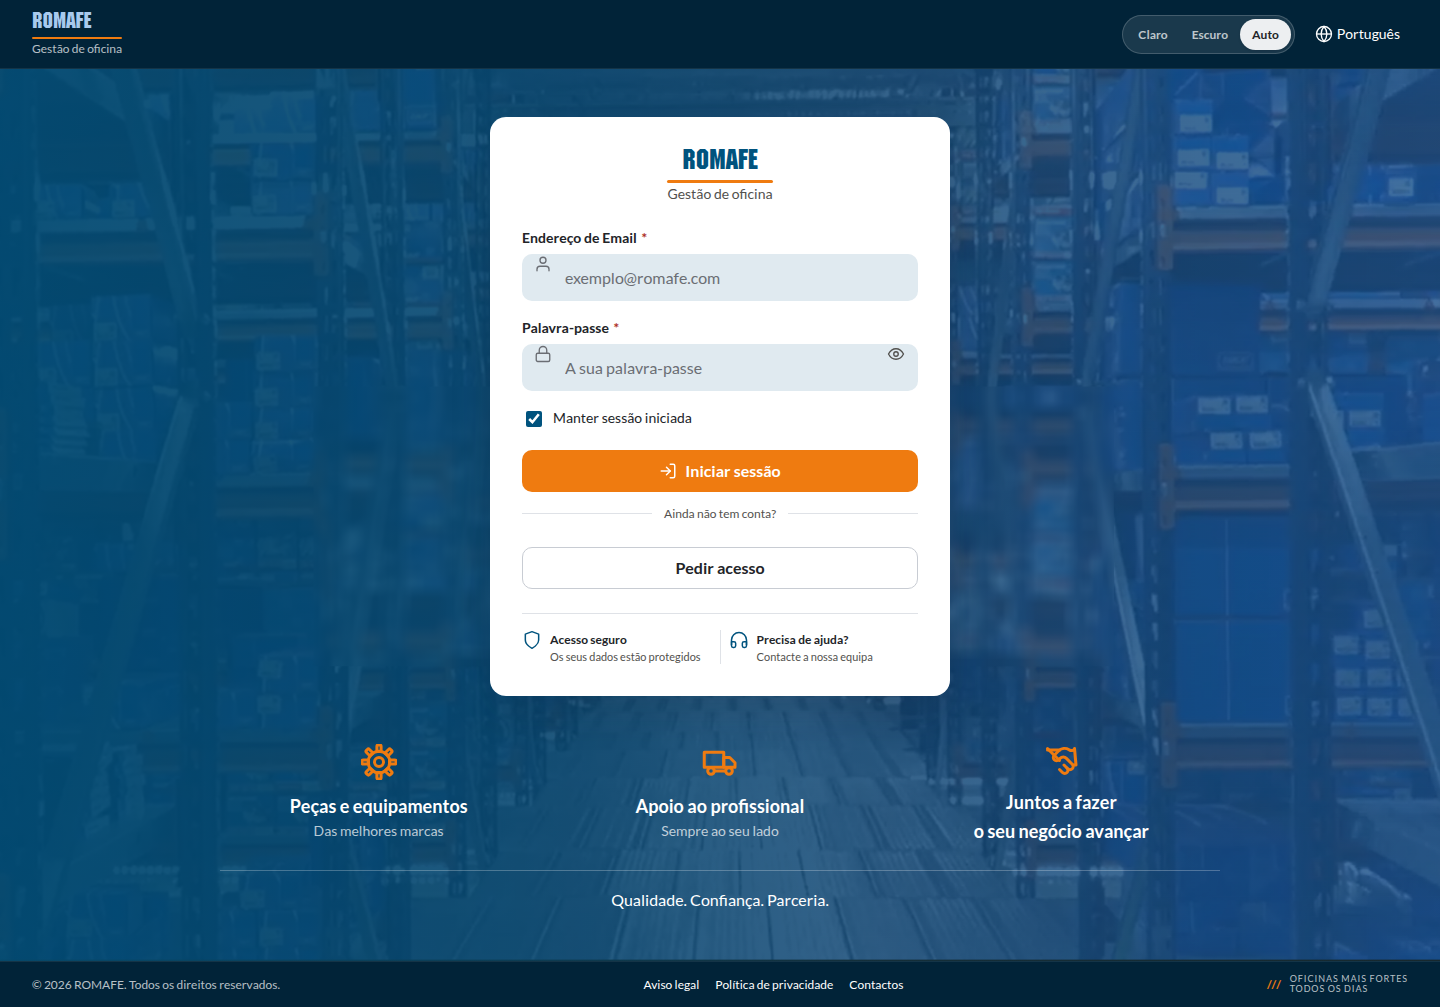
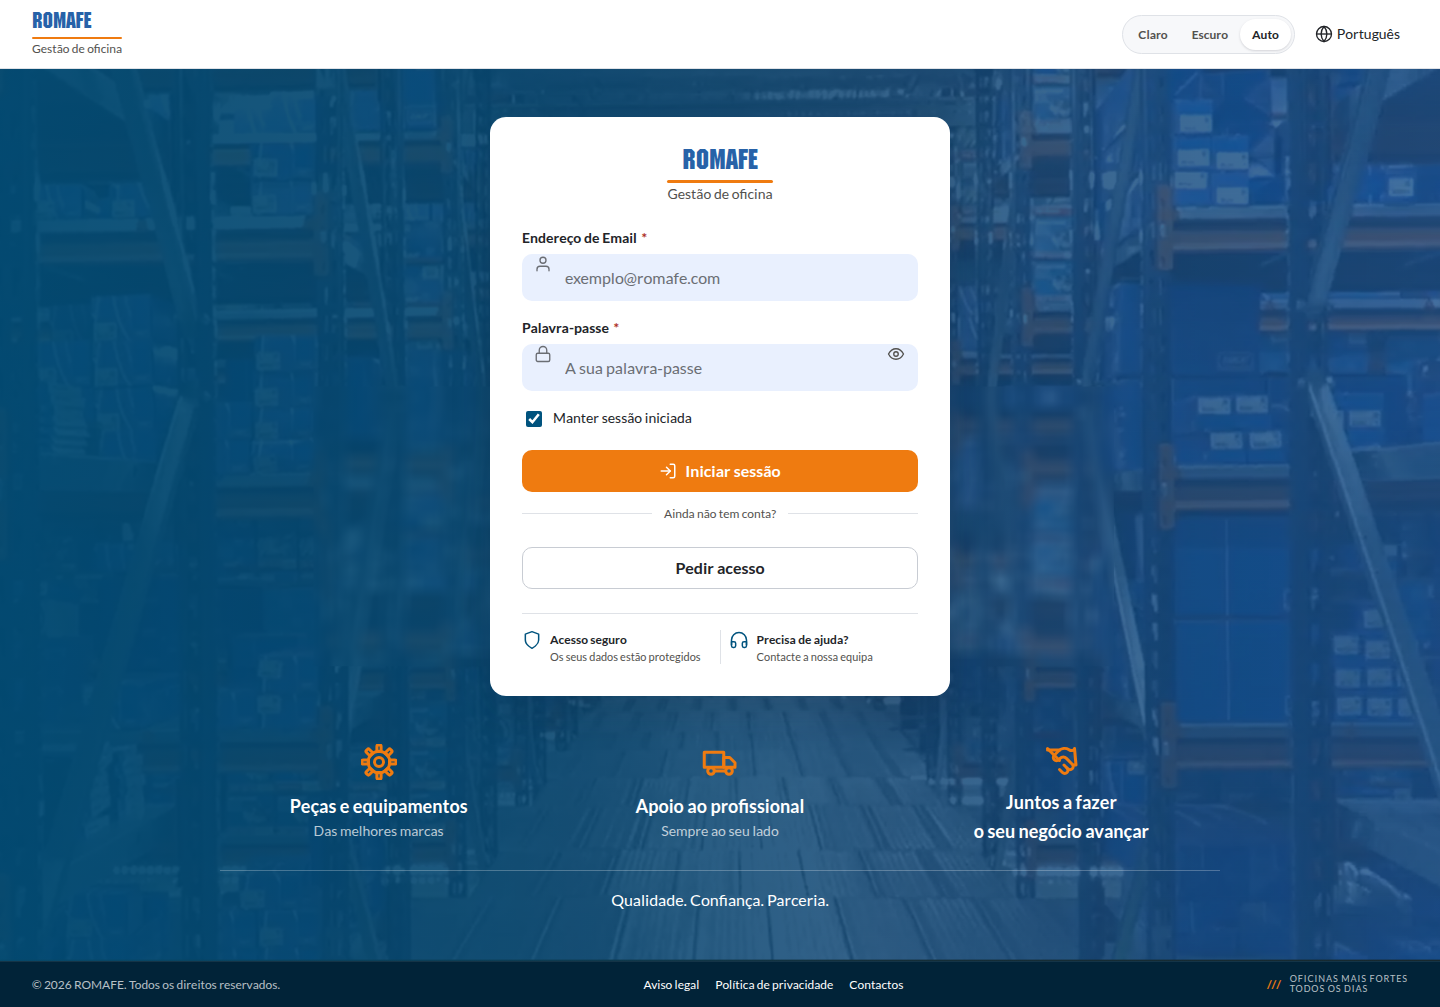
Barra de topo branca, e as cores alinhadas pela Gestão de frota
A barra deixa de ser azul escura e passa a superfície branca, para o nome poder
ser o azul escuro que se pediu — sobre o #012338 o azul escuro dava 1.53:1 e não
se via.

As duas capturas do ecrã de entrada da Gestão de frota fixaram dois valores que
o capítulo 02 não tem: o azul do nome, #2762a8 nos dois temas, e o fundo dos
campos, #e9f0fe no claro e #3d434f no escuro. Ficam registados no LEIA-ME como
dívida: ou o manual ganha e voltam aos tokens dele, ou o capítulo 02 é que está
incompleto.

O laranja fica no #ef7b10 do manual. As capturas dão #e77f24, que é a mesma cor
depois de passar pelo perfil do ecrã, e não uma decisão.

Claude-Session: https://claude.ai/code/session_01GVuYjnRH5bPY4K9mtqYcc2

Changed region(s): [[0.0, 0.0, 1.0, 0.0924], [0.4688, 0.1231, 0.5312, 0.1847]]

diff --git a/web/assets/css/tokens.css b/web/assets/css/tokens.css
@@ -123,15 +123,17 @@
   --c-entrada-veu:    rgba(0, 83, 126, .78);   /* 02 §1.1: as transparências do azul */
   --c-entrada-tinta:  #ffffff;
   --c-entrada-tinta-2: rgba(255, 255, 255, .72); /* 02 §6: o branco a 72% do menu */
-  --c-logotipo:       #00537e;                 /* o azul da marca, e não um parecido */
-  --c-campo-fundo:    var(--c-marca-suave);    /* 02 §4.2: o fundo do selo de informação */
+  /* Estes dois vêm das capturas do ecrã de entrada da Gestão de frota, que
+     é o produto a copiar. Não estão no capítulo 02 — ver LEIA-ME. */
+  --c-logotipo:       #2762a8;                 /* o azul do nome, nos dois temas */
+  --c-campo-fundo:    #e9f0fe;                 /* o azul lavado dos campos */
   --a-campo:          44px;                    /* 19 §2: 44 e não 42 */
   --l-cartao:         460px;                   /* a maqueta. O 19 §1 pede 400 */
 }
 
 /* 02 §11.4: sobre fundo escuro o azul da marca dá 1.53:1. O azul que é
    tinta muda; o que é fundo fica onde está. */
-[data-theme="dark"] { --c-logotipo: #a8caee; }
+[data-theme="dark"] { --c-campo-fundo: #3d434f; }
 
 /* O site trata "auto" como claro, porque não tem regra de sistema.
    Aqui auto segue o sistema — é a única diferença de comportamento. */
@@ -164,6 +166,6 @@
     --s-2: 0 4px 14px rgba(0,0,0,.45);
     --s-3: 0 18px 44px rgba(0,0,0,.55);
 
-    --c-logotipo:     #a8caee;
+    --c-campo-fundo:  #3d434f;
   }
 }

diff --git a/web/assets/css/entrada.css b/web/assets/css/entrada.css
@@ -14,17 +14,14 @@
 .topo {
   display: flex; align-items: center; justify-content: space-between; gap: var(--e-4);
   padding: var(--e-3) var(--e-6);
-  background: var(--c-entrada-fundo);
-  color: var(--c-entrada-tinta);
-  border-bottom: 1px solid rgba(255,255,255,.08);
+  background: var(--c-superficie);
+  color: var(--c-texto);
+  border-bottom: 1px solid var(--c-borda);
 }
 .topo__accoes { display: flex; align-items: center; gap: var(--e-3); }
-.topo .segmented { background: rgba(255,255,255,.10); border-color: rgba(255,255,255,.18); }
-.topo .segmented__btn { color: var(--c-entrada-tinta-2); }
-.topo .segmented__btn[aria-pressed="true"] { background: rgba(255,255,255,.92); color: #222428; }
 .topo__idioma {
   display: inline-flex; align-items: center; gap: var(--e-1);
-  font: inherit; font-size: var(--t-sm); color: var(--c-entrada-tinta);
+  font: inherit; font-size: var(--t-sm); color: var(--c-texto);
   background: transparent; border: 0; cursor: pointer; padding: var(--e-2);
 }
 .topo__idioma svg { width: 18px; height: 18px; }

diff --git a/web/index.html b/web/index.html
@@ -20,7 +20,7 @@
 <div class="entrada">
 
   <header class="topo">
-    <div class="lockup lockup--sm lockup--invertido">
+    <div class="lockup lockup--sm">
       <p class="lockup__nome">ROMAFE</p>
       <span class="lockup__risco" aria-hidden="true"></span>
       <p class="lockup__sub">Gestão de oficina</p>

diff --git a/LEIA-ME.md b/LEIA-ME.md
@@ -82,6 +82,21 @@ Serve para criar designs com a IA do Canva, preencher modelos e exportar. **Não
 coloca elementos em posições exatas**, por isso não reproduz este ecrã ao pixel —
 o caminho do PDF continua a ser o mais fiel.
 
+## Duas cores que vêm do produto, e não do manual
+
+As capturas do ecrã de entrada da **Gestão de frota** fixaram dois valores que o
+capítulo 02 não tem:
+
+| Token | Valor | Onde |
+| --- | --- | --- |
+| `--c-logotipo` | `#2762a8` nos dois temas | O nome ROMAFE |
+| `--c-campo-fundo` | `#e9f0fe` claro · `#3d434f` escuro | O fundo dos campos |
+
+O manual diz que uma cor que não esteja no capítulo 02 não existe no produto, e
+que um azul quase igual ao da marca é pior do que um azul errado. Ou o manual
+ganha e estes dois voltam a `#00537e` e `--c-marca-suave`, ou o capítulo 02 fica
+incompleto e é ele que tem de crescer. Não é uma decisão de código.
+
 ## O que segue o manual, e não a maqueta
 
 | Peça | Maqueta | Aqui | Porquê |
